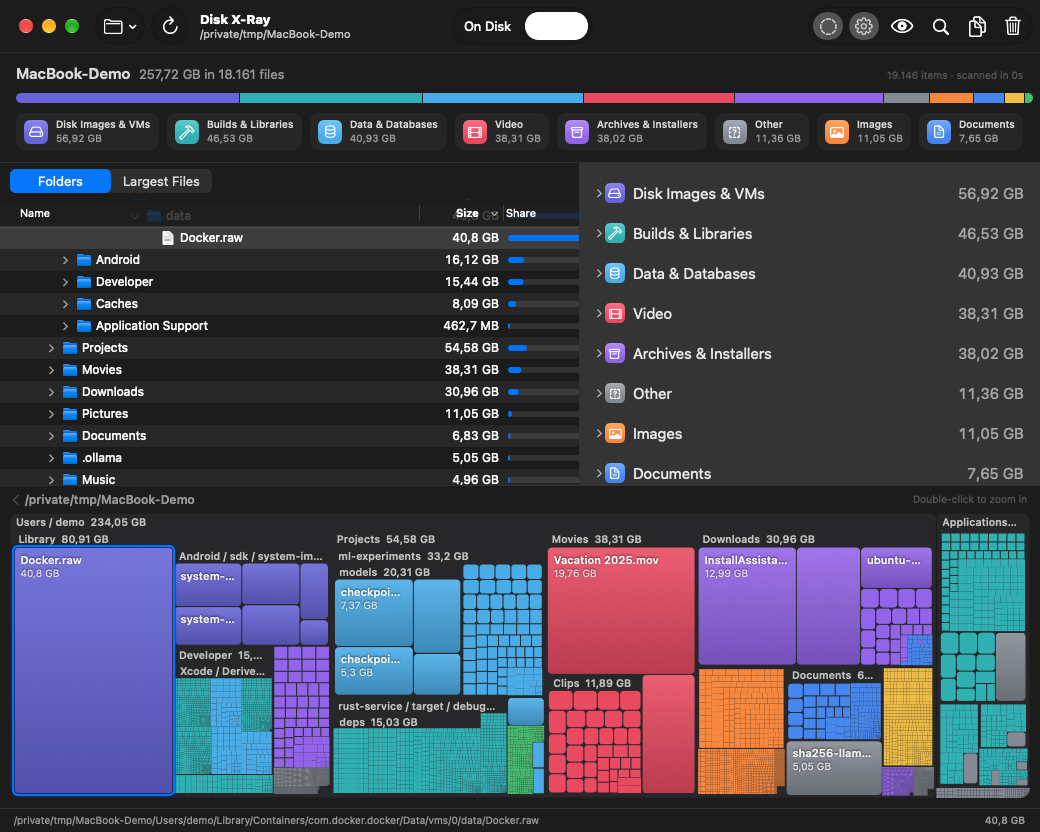
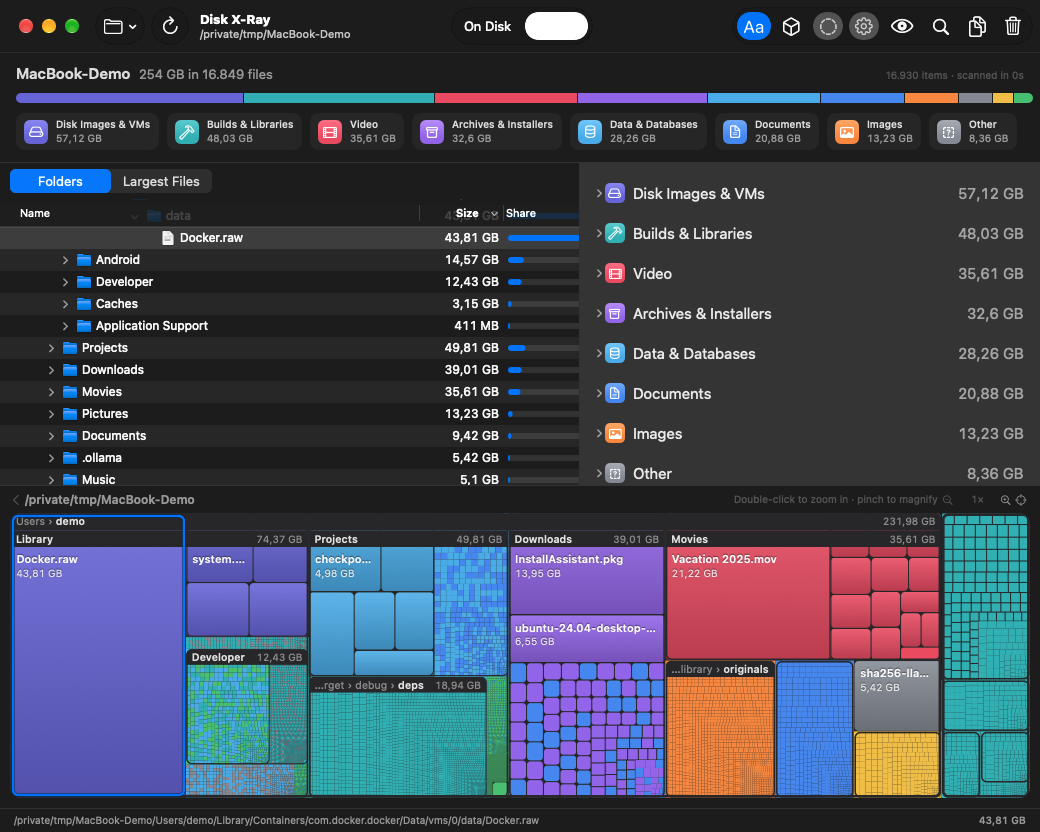
docs: lupa com pinça e mapa 3D do Disk X-Ray no README e no site, capturas novas

diff --git a/docs/disk-xray.pt.md b/docs/disk-xray.pt.md
@@ -1,5 +1,5 @@
 ---
-description: Disk X-Ray — veja para onde vai cada gigabyte do seu Mac com uma leitura rápida do disco inteiro, um mapa por tipo de arquivo, a árvore de pastas e os maiores arquivos.
+description: Disk X-Ray — veja para onde vai cada gigabyte do seu Mac com uma leitura rápida do disco inteiro, um mapa por tipo de arquivo que você amplia com a pinça (2D ou 3D com Metal), a árvore de pastas e os maiores arquivos.
 ---
 
 # Disk X-Ray
@@ -16,6 +16,13 @@ Abra pelo botão :material-radiology-box: no topo do popover da barra de menus.
 - **Largest Files** — os maiores arquivos de qualquer lugar do disco.
 - **Tipos** — cada categoria e suas extensões, com tamanhos e quantidades; clique para destacar.
 - **Mapa** — cada arquivo é um bloco, do tamanho do espaço que ocupa e com a cor do seu tipo. Pastas grandes ganham um cabeçalho com nome e tamanho.
+
+## Mapa 3D
+
+Ligue o botão :material-cube-outline: **3D** na barra de ferramentas e o mapa passa a ser desenhado na GPU com Metal como *almofadas* iluminadas (o cushion treemap de van Wijk & van de Wetering, o visual clássico do WinDirStat): cada arquivo é um pequeno relevo iluminado do alto à esquerda, e os vincos entre eles mostram onde uma pasta termina e a outra começa. O relevo é o mesmo em qualquer ampliação e fica nítido quadro a quadro durante a pinça e o arrasto. Todo o resto — seleção, nomes, lupa, árvore — funciona igual ao 2D, que continua sendo o padrão.
+
+![Mapa 3D do Disk X-Ray](assets/images/disk-xray-3d-light.png#only-light){ .screenshot }
+![Mapa 3D do Disk X-Ray](assets/images/disk-xray-3d-dark.png#only-dark){ .screenshot }
 
 ## Usando o mapa
 

diff --git a/docs/disk-xray.md b/docs/disk-xray.md
@@ -1,5 +1,5 @@
 ---
-description: Disk X-Ray — see where every gigabyte of your Mac goes with a fast full-disk scan, a file-type treemap, a folder tree and the largest files.
+description: Disk X-Ray — see where every gigabyte of your Mac goes with a fast full-disk scan, a file-type treemap you pinch to magnify (2D or 3D with Metal), a folder tree and the largest files.
 ---
 
 # Disk X-Ray
@@ -16,6 +16,13 @@ Open it from the :material-radiology-box: button at the top of the menu bar popo
 - **Largest Files** — the biggest files anywhere on the disk.
 - **Types** — every category and its extensions with sizes and file counts; click one to highlight it.
 - **Map** — a treemap where every file is a tile sized by how much space it takes and colored by type. Large folders get a header with their name and size.
+
+## 3D map
+
+Turn on the :material-cube-outline: **3D** button in the toolbar and the map is drawn on the GPU with Metal as lit *cushions* (van Wijk & van de Wetering's cushion treemap, the classic WinDirStat look): every file is a small pillow lit from the top left, and the creases between pillows show where one folder ends and the next begins. The relief is the same at any magnification and stays sharp frame by frame while you pinch or pan. Everything else — selection, labels, magnifier, tree — works the same as in 2D, which stays the default.
+
+![Disk X-Ray 3D map](assets/images/disk-xray-3d-light.png#only-light){ .screenshot }
+![Disk X-Ray 3D map](assets/images/disk-xray-3d-dark.png#only-dark){ .screenshot }
 
 ## Using the map
 

diff --git a/README.pt-BR.md b/README.pt-BR.md
@@ -68,7 +68,9 @@ Mais detalhes no [guia de instalação](https://alexkads.github.io/MAC-LIMPO/pt/
 - **Apps e navegadores** — caches do Safari/Chrome/Firefox, Spotify, Adobe, Notion, apps criativos, restos de apps desinstalados.
 - **Comunicação** — Slack, anexos do Messages e do Mail, caches do WhatsApp/Teams/Discord.
 
-**Disk X-Ray** — o mapa completo do disco: cada arquivo lido em segundos (milhões de itens), um mapa colorido por tipo de arquivo, a árvore de pastas, o painel de tipos e os maiores arquivos. Duplo clique para dar zoom, Quick Look, Mostrar no Finder, Mover para a Lixeira.
+**Disk X-Ray** — o mapa completo do disco: cada arquivo lido em segundos (milhões de itens), um mapa colorido por tipo de arquivo, a árvore de pastas, o painel de tipos e os maiores arquivos. Faça a pinça (ou use a roda do mouse) para ampliar até um único arquivo de 1 KB e arraste para deslocar, como num mapa; ⌘↩ voa até o item selecionado. Troque para o **mapa 3D**, desenhado na GPU com Metal como almofadas iluminadas, em que as pastas aparecem como vincos. Duplo clique para entrar numa pasta, Quick Look, Mostrar no Finder, Mover para a Lixeira.
+
+<img src="docs/assets/images/disk-xray-3d-light.png" alt="Disk X-Ray em 3D: o mapa desenhado como almofadas iluminadas com Metal" width="860">
 
 **Seguro por padrão** — escaneia antes, confirma antes de limpar, Lixeira em vez de apagar quando possível e só caches (nunca seus documentos). Veja [o que ele limpa e por que é seguro](https://alexkads.github.io/MAC-LIMPO/pt/safety/).
 

diff --git a/README.md b/README.md
@@ -69,7 +69,9 @@ More in the [installation guide](https://alexkads.github.io/MAC-LIMPO/install/).
 - **Apps & browsers** — Safari/Chrome/Firefox caches, Spotify, Adobe, Notion, creative apps, leftovers of uninstalled apps.
 - **Communication** — Slack, Messages and Mail attachments, WhatsApp/Teams/Discord caches.
 
-**Disk X-Ray** — a full map of the disk: every file read in seconds (millions of items), a treemap colored by file type, a folder tree, a file-type panel and the largest files. Double-click to zoom, Quick Look, Show in Finder, Move to Trash.
+**Disk X-Ray** — a full map of the disk: every file read in seconds (millions of items), a treemap colored by file type, a folder tree, a file-type panel and the largest files. Pinch (or scroll the mouse wheel) to magnify down to a single 1 KB file and drag to pan, like a map; ⌘↩ flies to the selected item. Switch to the **3D map**, drawn on the GPU with Metal as lit cushions where folders show as creases. Double-click to zoom into a folder, Quick Look, Show in Finder, Move to Trash.
+
+<img src="docs/assets/images/disk-xray-3d-light.png" alt="Disk X-Ray 3D map: the treemap drawn as lit cushions with Metal" width="860">
 
 **Safe by default** — scan first, confirm before cleaning, Trash instead of delete where possible, and caches only (never your documents). See [what it cleans and why it is safe](https://alexkads.github.io/MAC-LIMPO/safety/).
 

diff --git a/docs/index.pt.md b/docs/index.pt.md
@@ -44,7 +44,7 @@ O script compila o MAC-LIMPO **no seu Mac** e instala em `/Applications`. Compil
 
     ---
 
-    Lê cada arquivo em segundos e mapeia o disco por tipo: árvore de pastas, painel de tipos, maiores arquivos e um mapa interativo.
+    Lê cada arquivo em segundos e mapeia o disco por tipo: árvore de pastas, painel de tipos, maiores arquivos e um mapa que você amplia com a pinça até um único arquivo — em 2D ou como mapa 3D desenhado com Metal.
 
     [:octicons-arrow-right-24: Disk X-Ray](disk-xray.md)
 

diff --git a/docs/index.md b/docs/index.md
@@ -44,7 +44,7 @@ The script builds MAC-LIMPO **on your Mac** and installs it into `/Applications`
 
     ---
 
-    Reads every file in seconds and maps the disk by file type: folder tree, type panel, largest files and an interactive treemap.
+    Reads every file in seconds and maps the disk by file type: folder tree, type panel, largest files and a treemap you pinch to magnify down to a single file — in 2D or as a 3D map drawn with Metal.
 
     [:octicons-arrow-right-24: Disk X-Ray](disk-xray.md)
 
